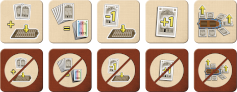
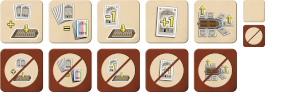
Improved details on tooltip language. Added system for adding little images in the title text

diff --git a/copenhagen.js b/copenhagen.js
@@ -51,7 +51,11 @@ function (dojo, declare) {
 
             this.whitePolyominosPerStack = 3;
 
-            this.log_replace_keys = ['log_polyomino', 'log_ability_tile']; // keys in the log that we do post-processing on
+            // keys in the log that we do custom pre-processing on
+            this.preprocess_string_keys = [
+                'log_polyomino', 
+                'log_ability_tile',
+            ]; 
 
             this.polyominoShapes = {
                 "purple-2":[{x:0,y:0},{x:1,y:0}],
@@ -677,9 +681,9 @@ function (dojo, declare) {
         updateSpecialAbilityTooltips: function()
         {
             this.addTooltipToClass('copen_any_cards', _("Any cards: The cards you take don't have to be next to each other"), "");
-            this.addTooltipToClass('copen_additional_card', _("Additional card: You can take a third card"), "");
+            this.addTooltipToClass('copen_additional_card', _("Additional card: You can take a third card from anywhere."), "");
             this.addTooltipToClass('copen_construction_discount', _("Construction Discount: Discard 1 less card when you place a facade tile"), "");
-            this.addTooltipToClass('copen_change_of_colors', _("Change of colors: Treat one color of card in your hand as a different color"), "");
+            this.addTooltipToClass('copen_change_of_colors', _("Change of colors: Treat ALL cards of one color in your hand as a different color"), "");
             this.addTooltipToClass('copen_both_actions', _("Both actions: You can take cards and place a facade tile this turn"), "");
         },
 
@@ -1063,13 +1067,15 @@ function (dojo, declare) {
             
             // STANDARD RULES FOR OTHER COLORS
             var cardsOfColor = this.countColoredCardsInHand( color );
-            //var squares = this.getPolyominoSquaresFromId( this.selectedPolyomino.id );
             var cost = this.getCostOfShapeAtPosition( gridCells, color);
             return cardsOfColor >= cost;
         },
 
         styleSelectedPolyominoBasedOnValidity( validity, gridCells )
         {
+
+            this.removeTooltip( this.selectedPolyomino.id);
+
             if( validity )
             {
                 dojo.removeClass( this.selectedPolyomino.id, "copen_invalid_placement");  
@@ -1079,19 +1085,41 @@ function (dojo, declare) {
             {
                 dojo.addClass( this.selectedPolyomino.id, "copen_invalid_placement");
                 dojo.addClass( "confirm_polyomino_placement", "copen_button_disabled");
-                this.showOverlap( gridCells );
+                var hasOverlap = this.showOverlap( gridCells );
+
+                // LEAVE A HELPFUL TOOLTIP
+                // tooltips are going currently preventing dragging
+                /*
+                if( hasOverlap )
+                {
+                    this.addTooltipHtml( this.selectedPolyomino.id, _("This facade tile can't be placed here. It can't overlap other facade tiles."), '');
+                }
+                else if( !this.isGroundedPosition( gridCells ) )
+                {
+                    this.addTooltipHtml( this.selectedPolyomino.id, _("This facade tile can't be placed here. It needs to be supported - sitting on the lowest row or sitting on another facade tile."), '');
+                }
+                else  // Since there's only 3 reasons you can't place a tile, we assume its this last one if it's not the other two
+                {
+                    this.addTooltipHtml( this.selectedPolyomino.id, _("This facade tile can't be placed here. Since you have one less card than you need, you have to place this facade tile so it touches one of the same color."), '');
+                }*/
             } 
         },
 
         showOverlap: function( gridCells )
         {
+
+            var hasOverlap = false;
+
             for( var i = 0; i < gridCells.length; i++)
             {
                 if( !this.isCellEmpty( gridCells[i] ))
                 {
                     dojo.style(this.selectedPolyomino.overlaps[i],"display","block");
+                    hasOverlap = true;
                 }
             }
+
+            return hasOverlap;
         },
 
         hideOverlap: function()
@@ -2786,12 +2814,19 @@ function (dojo, declare) {
                 if (log && args && !args.processed) {
                     args.processed = true;
                     
-                    for ( var i in this.log_replace_keys) {
+                    for ( var i in this.preprocess_string_keys) {
 
-                        var key = this.log_replace_keys[i];
-                        if(key in args)  // only replace key if it's present
+                        var key = this.preprocess_string_keys[i];
+
+                        // HANDLE KEYS IN TITLE MESSAGES
+                        //  the strings in title messages are not passed through args, so work on the log function directly
+                        log = this.preProcessTitle( log );
+
+                        // HANDLE KEYS IN LOG MESSAGES
+                        //  keys in log messages get passed into args directly
+                        if(key in args) 
                         {  
-                            args[key] = this.postProcessLogKey(key, args); 
+                            args[key] = this.preProcessLog(key, args); 
                         }                           
                     }
 
@@ -2802,20 +2837,23 @@ function (dojo, declare) {
             return this.inherited(arguments);
         },
 
-        postProcessLogKey(key, args)
+        preProcessLog(key, args)
         {
 
             switch(key)
             {
                 case 'log_polyomino':
-                    return this.postProcessLogPolyomino( key, args );
+                    return this.preProcessLogPolyomino( key, args );
 
                 case 'log_ability_tile':
-                    return this.postProcessLogAbilityTile( key, args );
+                    return this.preProcessLogAbilityTile( key, args );
+
+                case 'title_special_facade_tile':
+                    return this.preProcessTitleFormatStringSpecialFacadeTile( key, args);
             }
         },
 
-        postProcessLogPolyomino( key, args )
+        preProcessLogPolyomino( key, args )
         {
 
             var color = args[key].split("-")[0];
@@ -2827,12 +2865,45 @@ function (dojo, declare) {
             }); 
         },
 
-        postProcessLogAbilityTile( key, args )
+        preProcessLogAbilityTile( key, args )
         {
-
             return this.format_block('jstpl_log_ability_tile',{
                 log_ability_tile: args[key],               
             }); 
+        },
+
+        preProcessTitle( title )
+        {
+
+            title = this.preProcessTitleSpecialFacadeTile( title );
+            title = this.preProcessSpecialAbilityTile( title );
+            title = this.preProcessSpecialAbilityTileUsed( title );
+
+            return title;
+        },
+
+        preProcessTitleSpecialFacadeTile( title )
+        {
+            return title.replace(
+                "${title_special_facade_tile}",
+                this.format_block('jstpl_title_special_facade_tile',{})
+            ); 
+        },
+
+        preProcessSpecialAbilityTile( title )
+        {
+            return title.replace(
+                "${title_ability_tile}",
+                this.format_block('jstpl_title_special_ability_tile',{})
+            ); 
+        },
+
+        preProcessSpecialAbilityTileUsed( title )
+        {
+            return title.replace(
+                "${title_ability_tile_used}",
+                this.format_block('jstpl_title_special_ability_tile_used',{})
+            ); 
         },
 
 

diff --git a/copenhagen.css b/copenhagen.css
@@ -248,10 +248,11 @@ I'VE TRIED KEEPING THE GRABBING HAND DURING THE WHOLE DRAG OPERATION
     cursor: grabbing ;
 }
 
-.copen_log_polyomino
+.copen_log_polyomino,
 {
     display: inline-block;
 }
+
 
 .copen_purple-2  
 {
@@ -839,6 +840,32 @@ I'VE TRIED KEEPING THE GRABBING HAND DURING THE WHOLE DRAG OPERATION
     height: 43px;
     background-image: url('img/tiles.png');
     position: relative;
+}
+
+.copen_title_polyomino
+{
+    vertical-align: text-top;
+    display:  inline-block;
+    width: 23px;
+    height: 23px;
+    background-position: -455px 0px;
+    background-image: url('img/polyominoes.png');
+}
+
+.copen_title_ability_tile,
+.copen_title_ability_tile_used
+{
+    vertical-align: text-top;
+    display:  inline-block;
+    width: 24px;
+    height: 23px;
+    background-position: -242px 0px;
+    background-image: url('img/tiles.png');
+}
+
+.copen_title_ability_tile_used
+{
+    background-position: -242px -25px;
 }
 
 #shadow_box{

diff --git a/states.inc.php b/states.inc.php
@@ -174,8 +174,8 @@ $machinestates = array(
     8 => array(
         "name" => "coatOfArms",
         "action" => "stCoatOfArms",
-        "description" => clienttranslate('${actplayer} must take an ability tile, place a special facade tile, or flip over their used ability tiles'),
-        "descriptionmyturn" => clienttranslate('${you} must take an ability tile, place a special facade tile, or flip over your used ability tiles'),
+        "description" => clienttranslate('${actplayer} must take an ability tile ${title_ability_tile}, place a special facade tile ${title_special_facade_tile}, or flip over ALL their used ability tiles ${title_ability_tile_used}'),
+        "descriptionmyturn" => clienttranslate('${you} must take an ability tile ${title_ability_tile}, place a special facade tile ${title_special_facade_tile}, or flip over ALL your used ability tiles ${title_ability_tile_used}'),
         "type" => "activeplayer",
         "possibleactions" => array( "placePolyomino", "takeAbilityTile", "resetUsedAbilities", "undo" ),
         "transitions" => array( "coatOfArms" => 8, "calculateScore" => 7, "refillHarbor" => 50, "zombiePass" => 50 ),
